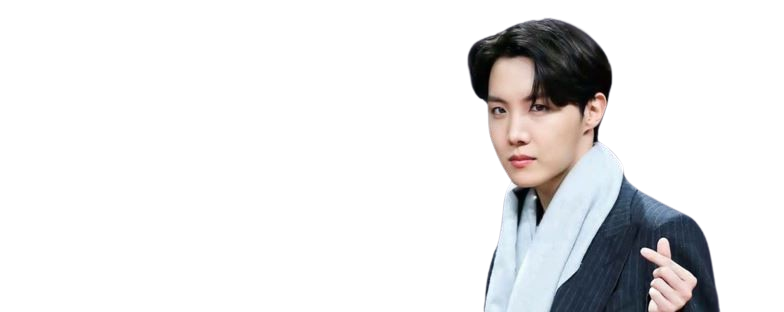
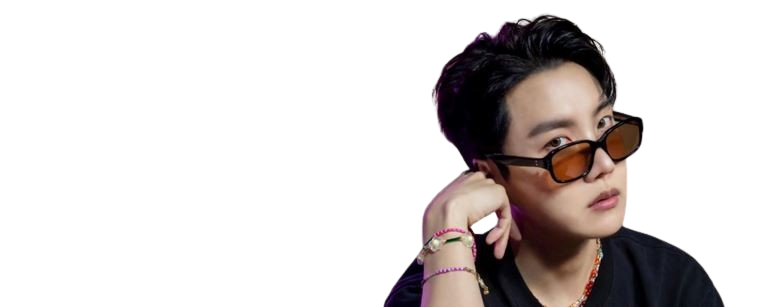
perubahan di beberapa file dan penambahan foto

Changed region(s): [[0.4917, 0.0293, 0.9526, 1.0]]

diff --git a/army/templates/music.html b/army/templates/music.html
@@ -376,13 +376,13 @@
                         <a href="yoongi"><img src="{% static 'img/yoongi.jpg' %}" alt=""></a>
                     </li>
                     <li>
-                        <a href="hope"><img src="{% static 'img/hope0.jpg' %}" alt=""></a>
+                        <a href="hope"><img src="{% static 'img/hope1.jpg' %}" alt=""></a>
                     </li>
                     <li>
                         <a href="namu"><img src="{% static 'img/namu0.jpg' %}" alt=""></a>
                     </li>
                     <li>
-                        <a href="jimin"><img src="{% static 'img/jimin.jpg' %}" alt=""></a>
+                        <a href="jimin"><img src="{% static 'img/jimin1.jpg' %}" alt=""></a>
                     </li>
                     <li>
                         <a href="taehyung"><img src="{% static 'img/taehyung.jpg' %}" alt=""></a>

diff --git a/army/templates/jimin.html b/army/templates/jimin.html
@@ -10,7 +10,7 @@
     <title>Army</title>
     <style>
         header .song_side::before {
-            background: url('./static/img/jimin1.png');
+            background: url('./static/img/jimin.png');
         }
 
         header .menu_side .playlist {
@@ -248,7 +248,7 @@
                         <img src="{% static 'img/namu0.jpg' %}" alt="">
                     </li>
                     <li>
-                        <img src="{% static 'img/jimin.jpg' %}" alt="">
+                        <img src="{% static 'img/jimin1.jpg' %}" alt="">
                     </li>
                     <li>
                         <img src="{% static 'img/taehyung.jpg' %}" alt="">

diff --git a/army/templates/hope.html b/army/templates/hope.html
@@ -248,7 +248,7 @@
                         <img src="{% static 'img/namu0.jpg' %}" alt="">
                     </li>
                     <li>
-                        <img src="{% static 'img/jimin.jpg' %}" alt="">
+                        <img src="{% static 'img/jimin1.jpg' %}" alt="">
                     </li>
                     <li>
                         <img src="{% static 'img/taehyung.jpg' %}" alt="">

diff --git a/army/templates/namu.html b/army/templates/namu.html
@@ -248,7 +248,7 @@
                         <img src="{% static 'img/namu0.jpg' %}" alt="">
                     </li>
                     <li>
-                        <img src="{% static 'img/jimin.jpg' %}" alt="">
+                        <img src="{% static 'img/jimin1.jpg' %}" alt="">
                     </li>
                     <li>
                         <img src="{% static 'img/taehyung.jpg' %}" alt="">

diff --git a/army/templates/seokjin.html b/army/templates/seokjin.html
@@ -248,7 +248,7 @@
                         <img src="{% static 'img/namu0.jpg' %}" alt="">
                     </li>
                     <li>
-                        <img src="{% static 'img/jimin.jpg' %}" alt="">
+                        <img src="{% static 'img/jimin1.jpg' %}" alt="">
                     </li>
                     <li>
                         <img src="{% static 'img/taehyung.jpg' %}" alt="">

diff --git a/army/templates/yoongi.html b/army/templates/yoongi.html
@@ -248,7 +248,7 @@
                         <img src="{% static 'img/namu0.jpg' %}" alt="">
                     </li>
                     <li>
-                        <img src="{% static 'img/jimin.jpg' %}" alt="">
+                        <img src="{% static 'img/jimin1.jpg' %}" alt="">
                     </li>
                     <li>
                         <img src="{% static 'img/taehyung.jpg' %}" alt="">
